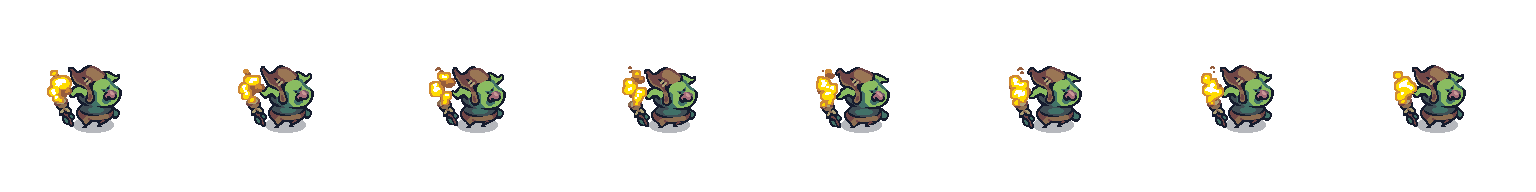
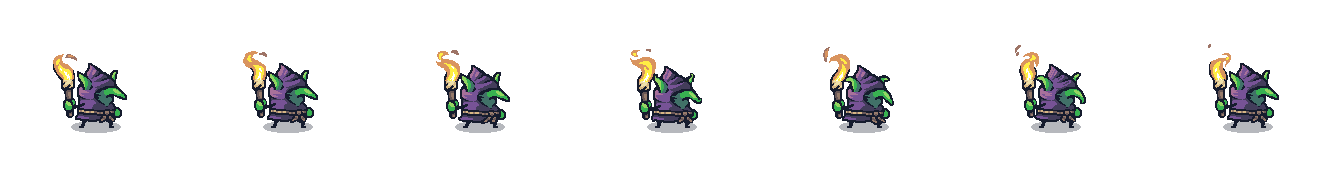
Restore classic purple goblin and add restrained themed courtyard props

diff --git a/app/game/scenery.ts b/app/game/scenery.ts
@@ -169,12 +169,27 @@ export function makeScenery(lots: Lot[]): Decoration[] {
   );
 }
 
-/** Sparse pack foliage in evil courtyards; keep the central path and fences clear. */
+/** Two or three original small props, themed by building and stable per parcel. */
 export function corruptedCourtyard(lot: Lot): Decoration[] {
-  if (!lot.owned || lot.kind === 'empty' || lot.kind === 'house' || lot.kind === 'hall' || lot.kind === 'guild' || lot.construction) return [];
-  return [
-    { key: 'tree-3', x: (lot.x + 6.35) * 32, y: (lot.y + 5.9) * 32, scale: 0.43, tint: 0xb18bcf },
-    { key: 'bush-3', x: (lot.x + 2.5) * 32, y: (lot.y + 6.25) * 32, scale: 0.35, tint: 0xb18bcf },
-    { key: 'bush-3', x: (lot.x + 5.65) * 32, y: (lot.y + 6.4) * 32, scale: 0.3, tint: 0x9d80c4 },
-  ];
+  if (!lot.owned || lot.construction) return [];
+  const mushroom = lot.id % 2 ? 'yard-mushroom' : 'yard-mushroom-small';
+  const plant = lot.id % 2 ? 'yard-leaves' : 'yard-plant';
+  const themes: Partial<Record<Lot['kind'], AssetKey[]>> = {
+    hq: ['yard-skull-sign', plant],
+    den: [mushroom, 'yard-bush'],
+    canteen: [lot.id % 2 ? 'yard-pumpkin' : 'yard-pumpkins', mushroom, plant],
+    forge: ['yard-bone', 'yard-skull-sign'],
+    sanctum: ['yard-skull-sign', 'yard-bone-small'],
+    crypt: ['yard-bone', 'yard-skull-sign', 'yard-bone-small'],
+    tavern: ['yard-pumpkin', plant],
+  };
+  const keys = themes[lot.kind] ?? [];
+  // Side lawns: no roots at the gate, on the fence or around the faction pennant.
+  const positions = [[6.15, 6.3], [1.55, 4.05], [6.4, 3.65]];
+  return keys.map((key, i) => ({
+    key,
+    x: (lot.x + positions[i][0] + (lot.id % 3 - 1) * 0.08) * 32,
+    y: (lot.y + positions[i][1] + (lot.id % 2) * 0.1) * 32,
+    scale: key === 'yard-skull-sign' ? 0.48 : 0.7,
+  }));
 }

diff --git a/tests/manor-preview.tsx b/tests/manor-preview.tsx
@@ -36,6 +36,10 @@ if (new URLSearchParams(location.search).has('siege')) {
   commandUnits(s, s.units.map(u => u.id), { type: 'lot', id: lot.id }, entrance(lot));
   for (let i = 0; i < 600; i++) { s.enemies = []; tick(s, 0.1); }
 }
+if (new URLSearchParams(location.search).has('courtyards')) {
+  const kinds = ['crypt', 'canteen', 'sanctum', 'den', 'tavern', 'forge'] as const;
+  kinds.forEach((kind, id) => Object.assign(s.lots[id], { kind, owned: true, construction: null }));
+}
 const original = Reflect.get(Renderer.prototype, 'resize') as () => void;
 Reflect.set(Renderer.prototype, 'resize', function (this: Renderer) {
   window.manorRenderer = this;

diff --git a/scripts/import-classic-goblin.py b/scripts/import-classic-goblin.py
@@ -1,0 +1,38 @@
+"""Extract the original purple Torch goblin frames from the Update 010 sheet.
+
+Usage: python3 scripts/import-classic-goblin.py 'Tiny Swords.zip'
+Requires Pillow. Pixels are copied unchanged; only animation rows are separated.
+"""
+import io
+import json
+import sys
+from pathlib import Path
+from zipfile import ZipFile
+from PIL import Image
+
+ROOT = Path(__file__).resolve().parents[1]
+manifest_path = ROOT / 'app/game/assets.json'
+manifest = json.loads(manifest_path.read_text())
+with ZipFile(sys.argv[1]) as archive:
+    sheet = Image.open(io.BytesIO(archive.read(
+        'Tiny Swords (Update 010)/Factions/Goblins/Troops/Torch/Purple/Torch_Purple.png'
+    ))).convert('RGBA')
+assert sheet.size == (1344, 960)
+# Exported rows: Idle, Run, Attack_Right, Attack_Down, Attack_Up.
+for action, row, frames in [('idle', 0, 7), ('walk', 1, 6), ('attack', 2, 6)]:
+    key = f'goblin-{action}'
+    sheet.crop((0, row * 192, frames * 192, (row + 1) * 192)).save(ROOT / f'public/tiny-swords/{key}.png')
+    manifest[key] = dict(src=f'/tiny-swords/{key}.png', width=frames * 192,
+                         height=192, frameWidth=192, frames=frames, anchor=.67)
+    manifest[f'bestiary-{key}'] = dict(manifest[key])
+# The old pack has no separate avatar. Use its original idle pose with tight,
+# square transparent padding so the HUD shows the same goblin as the map.
+pose = sheet.crop((0, 0, 192, 192))
+left, top, right, bottom = pose.getbbox()
+size = max(right - left, bottom - top) + 8
+x = (left + right - size) // 2
+y = (top + bottom - size) // 2
+pose.crop((x, y, x + size, y + size)).save(ROOT / 'public/tiny-swords/goblin-avatar.png')
+manifest['goblin-avatar'] = dict(src='/tiny-swords/goblin-avatar.png', width=size,
+                                height=size, frameWidth=size, frames=1, anchor=.67)
+manifest_path.write_text(json.dumps(manifest, indent=2) + '\n')

diff --git a/scripts/import-classic-decor.py b/scripts/import-classic-decor.py
@@ -1,0 +1,27 @@
+"""Copy the small courtyard decorations unchanged from Tiny Swords Update 010."""
+import io
+import json
+import sys
+from pathlib import Path
+from zipfile import ZipFile
+from PIL import Image
+
+ROOT = Path(__file__).resolve().parents[1]
+manifest_path = ROOT / 'app/game/assets.json'
+manifest = json.loads(manifest_path.read_text())
+assets = {
+    'yard-mushroom-small': 1, 'yard-mushroom': 2,
+    'yard-bush': 7, 'yard-plant': 10, 'yard-leaves': 11,
+    'yard-pumpkin': 12, 'yard-pumpkins': 13,
+    'yard-bone': 14, 'yard-bone-small': 15, 'yard-skull-sign': 16,
+}
+with ZipFile(sys.argv[1]) as archive:
+    for key, number in assets.items():
+        data = archive.read(f'Tiny Swords (Update 010)/Deco/{number:02}.png')
+        image = Image.open(io.BytesIO(data)).convert('RGBA')
+        width, height = image.size
+        bottom = image.getbbox()[3]
+        (ROOT / f'public/tiny-swords/{key}.png').write_bytes(data)
+        manifest[key] = dict(src=f'/tiny-swords/{key}.png', width=width, height=height,
+                             frameWidth=width, frames=1, anchor=bottom / height)
+manifest_path.write_text(json.dumps(manifest, indent=2) + '\n')

diff --git a/docs/tiny-swords-update-010-audit.md b/docs/tiny-swords-update-010-audit.md
@@ -1,0 +1,71 @@
+# Tiny Swords — Update 010 : inventaire utile à Evil City
+
+Archive examinée : `~/Downloads/Tiny Swords.zip`, dossier `Tiny Swords (Update 010)`.
+197 PNG, plus leurs sources Aseprite. Inspection des 18 décorations, des bâtiments,
+ressources, terrains et interfaces ; lecture des familles de troupes et des tags
+Aseprite du gobelin. Aucun fichier de licence présent dans cette archive : son nom
+interne ne permet pas à lui seul de confirmer l’appellation « Old Version CC0 ».
+
+## Intégré dans cette modification
+
+Le gobelin bâtisseur utilise maintenant **Torch/Purple/Torch_Purple.png** :
+7 poses de repos, 6 de course, 6 d’attaque latérale. Extraction des rangées d’origine,
+sans recoloration. Le portrait reprend sa pose de repos ; le bestiaire réutilise
+les mêmes animations. Les attaques haut/bas restent disponibles dans l’archive
+pour une future gestion de l’orientation verticale. Aucun changement de statistiques.
+Import reproductible : `scripts/import-classic-goblin.py`.
+
+Les petits décors de cour sont également intégrés : champignons, plantes, buisson,
+citrouilles, os et panneau à crâne. Deux ou trois objets par bâtiment, selon son
+type et la parcelle. Originaux copiés sans recoloration ; clôtures intactes.
+Import : `scripts/import-classic-decor.py`.
+
+## Éléments les plus utiles
+
+| Priorité | Source dans l’archive | Usage possible | État / précaution |
+|---|---|---|---|
+| Haute | `Deco/01.png` à `03.png` | Trois tailles de champignons dans les cours, autour des cryptes et cantines | Petits décors originaux, plus discrets que les grands arbres |
+| Haute | `Deco/07.png` à `11.png` | Trois buissons et deux plantes pour les bordures d’herbe | Décors naturels, pas de collection officiellement nommée « corrompue » |
+| Haute | `Deco/12.png`, `13.png` | Citrouilles et végétation rampante des cours du mal | Très adaptées à l’ambiance, sans recoloration nécessaire |
+| Haute | `Deco/14.png`, `15.png` | Ossements près des cryptes | Décor visuel seulement, à distinguer des dépouilles récupérables |
+| Haute | `Factions/*/Buildings/*/*Destroyed.png` | Ruines lisibles après destruction | Maison, tour, château humains ; maison et tour gobelines. Adaptation nécessaire aux gabarits et états existants |
+| Haute | `Factions/*/Buildings/*/*Construction.png`, `*InConstruction.png` | Montrer de vrais chantiers plutôt qu’un bâtiment transparent | Château, maison et tour humains ; tour gobeline |
+| Moyenne | `Deco/16.png`, `17.png`, `18.png` | Panneaux à crâne / pièce et épouvantail | Racket, cantine ou ferme. Limiter leur nombre pour ne pas les confondre avec des commandes |
+| Moyenne | `Resources/Gold Mine/GoldMine_Active.png`, `Inactive.png`, `Destroyed.png` | Distinguer production, arrêt et sabotage d’une mine | Requiert de conserver l’accès du travailleur et la lisibilité de la ressource |
+| Moyenne | `Resources/Resources/{G,M,W}_Spawn.png` | Apparition animée du butin : or, viande, bois | À réserver aux gains sur la carte ; les étincelles des cartes restent supprimées |
+| Moyenne | `Factions/Goblins/Troops/Barrel/*` | Gobelin caché dans un tonneau | Nouvelle unité ou action d’infiltration : nécessite une décision de gameplay |
+| Moyenne | `Factions/Goblins/Troops/TNT/*`, `TNT/Dynamite/Dynamite.png` | Artificier / démolition de siège | Nouveau rôle, pas un remplacement automatique du bâtisseur |
+| Moyenne | `Factions/Knights/Troops/Pawn/*` | Travail du paysan et port de ressources | Comparer au système de travailleurs actuel avant de remplacer les animations |
+| Faible | `Deco/04.png` à `06.png` | Trois tailles de rochers | Utiles pour varier les abords ; risque de surcharge dans les cours |
+| Faible | `Terrain/Bridge/Bridge_All.png` | Ponts et terminaisons modulaires | Le jeu possède déjà des ponts ; préserver les routes et collisions |
+| Faible | `Terrain/Ground/*`, `Terrain/Water/*` | Terrain plat, falaises, ombres, écume et rochers aquatiques | Le terrain actuel couvre ces besoins ; éviter de mélanger les palettes sans raison |
+| Faible | `UI/Buttons/*`, `UI/Banners/*`, `UI/Ribbons/*` | Boutons normaux, enfoncés, désactivés et survolés ; panneaux extensibles | Plusieurs équivalents déjà utilisés ; intéressant pour compléter un état manquant |
+| Faible | `UI/Icons/*`, `UI/Pointers/*` | Réglages, son, verrou, niveaux 1–3, +/−, sélection | Système d’interface existant à conserver cohérent |
+
+## Déjà présents, confirmés par comparaison exacte des fichiers
+
+- `Resources/Sheep/HappySheep_Bouncing.png` → `sheep-hit`.
+- `Terrain/Water/Water.png` → `water`.
+- `Factions/Goblins/Buildings/Wood_Tower/Wood_Tower_Purple.png` → `imp-sanctum`.
+- `Factions/Knights/Buildings/Castle/Castle_Blue.png` → `human-fortress-blue`.
+- `Factions/Knights/Troops/Dead/Dead.png` → `unit-death`.
+
+Une absence de correspondance exacte ne signifie pas qu’aucun équivalent n’existe :
+certains sprites du jeu sont extraits d’une planche ou viennent du Free Pack récent.
+
+## Autres familles examinées
+
+- Gobelins Torch, Barrel et TNT en bleu, rouge, violet et jaune.
+- Humains Archer, Warrior et Pawn dans ces quatre couleurs ; arcs et flèches séparés.
+- Maison gobeline, tour en bois et variantes ; maisons, tours et châteaux humains.
+- Moutons au repos et en réaction ; arbre animé ; or, bois, viande avec/sans ombre.
+- Feu et explosion ; déjà couverts par les effets du jeu.
+
+## Conclusion sur les arbres « corrompus »
+
+Dans cet Update 010, `Resources/Trees/Tree.png` est l’arbre naturel animé. Les
+citrouilles, os et panneaux de `Deco` sont les éléments originaux les plus adaptés
+aux cours du mal. `Extra/Dead Tree/Dead Tree.png` appartient à **l’autre archive,
+Enemy Pack**, et représente déjà la Hutte des Trolls du jeu. Ce n’est pas un arbre
+décoratif à répéter en miniature. Les clôtures n’ont pas à changer pour intégrer
+les petits décors ci-dessus.
